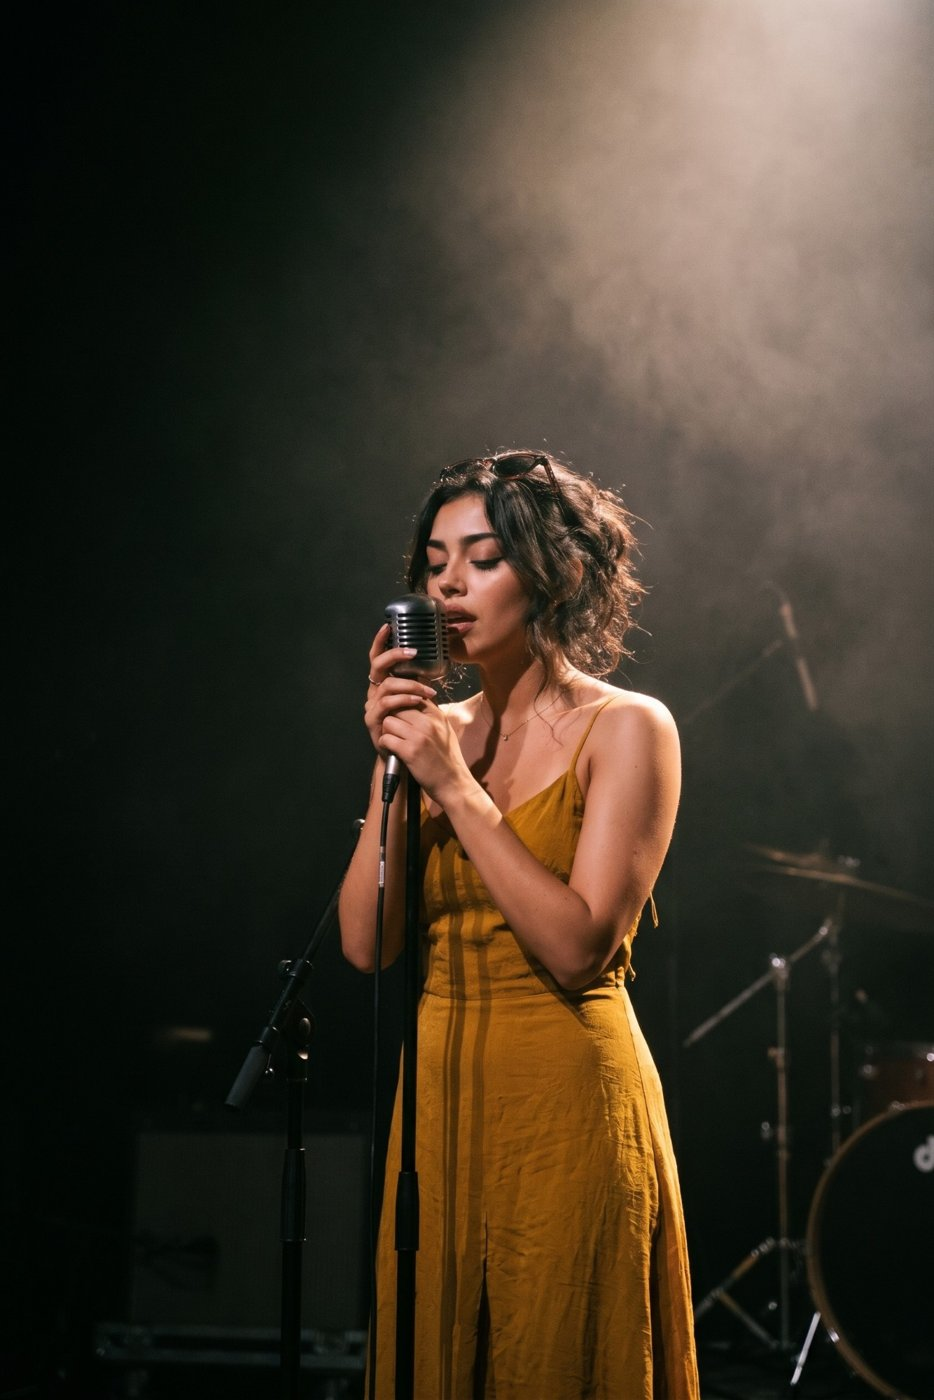
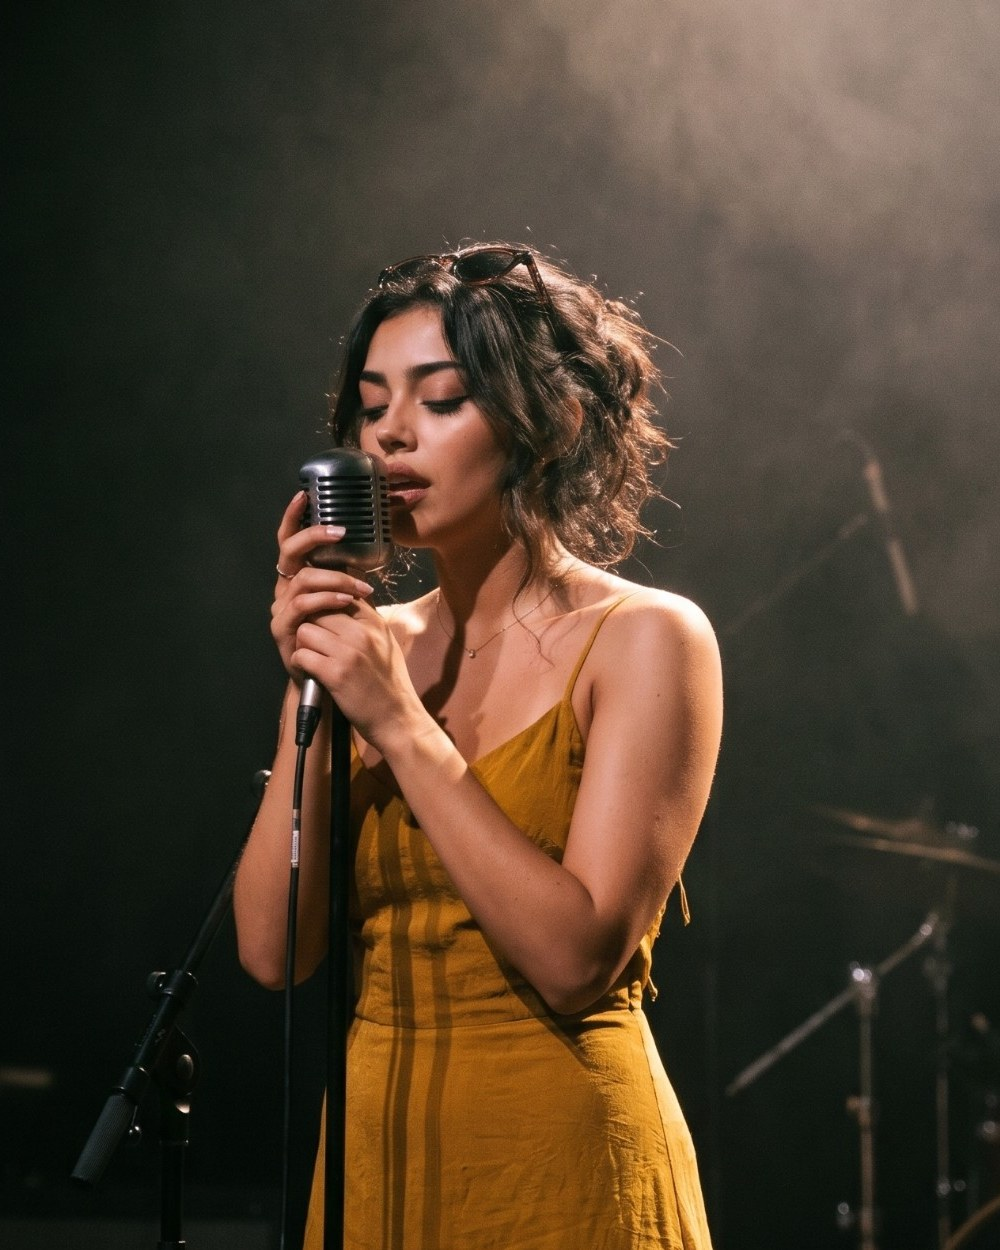
Crop yellow-dress photo closer

diff --git a/index.html b/index.html
@@ -24,7 +24,7 @@
 <div class="gallery">
 <img src="images/vee-1.jpg" alt="Vee Valentine at the piano in a ball cap">
 <img class="flip" src="images/vee-2.jpg" alt="Vee Valentine singing at the piano in a candlelit lounge">
-<img class="flip" src="images/vee-3.jpg" alt="Vee Valentine singing into a vintage microphone">
+<img class="flip" src="images/vee-3.jpg?v=2" alt="Vee Valentine singing into a vintage microphone">
 <img src="images/vee-4.jpg" alt="Vee Valentine smiling at the studio piano">
 <img class="col3" src="images/vee-5.jpg" alt="Vee Valentine recording vocals in the studio">
 </div>
